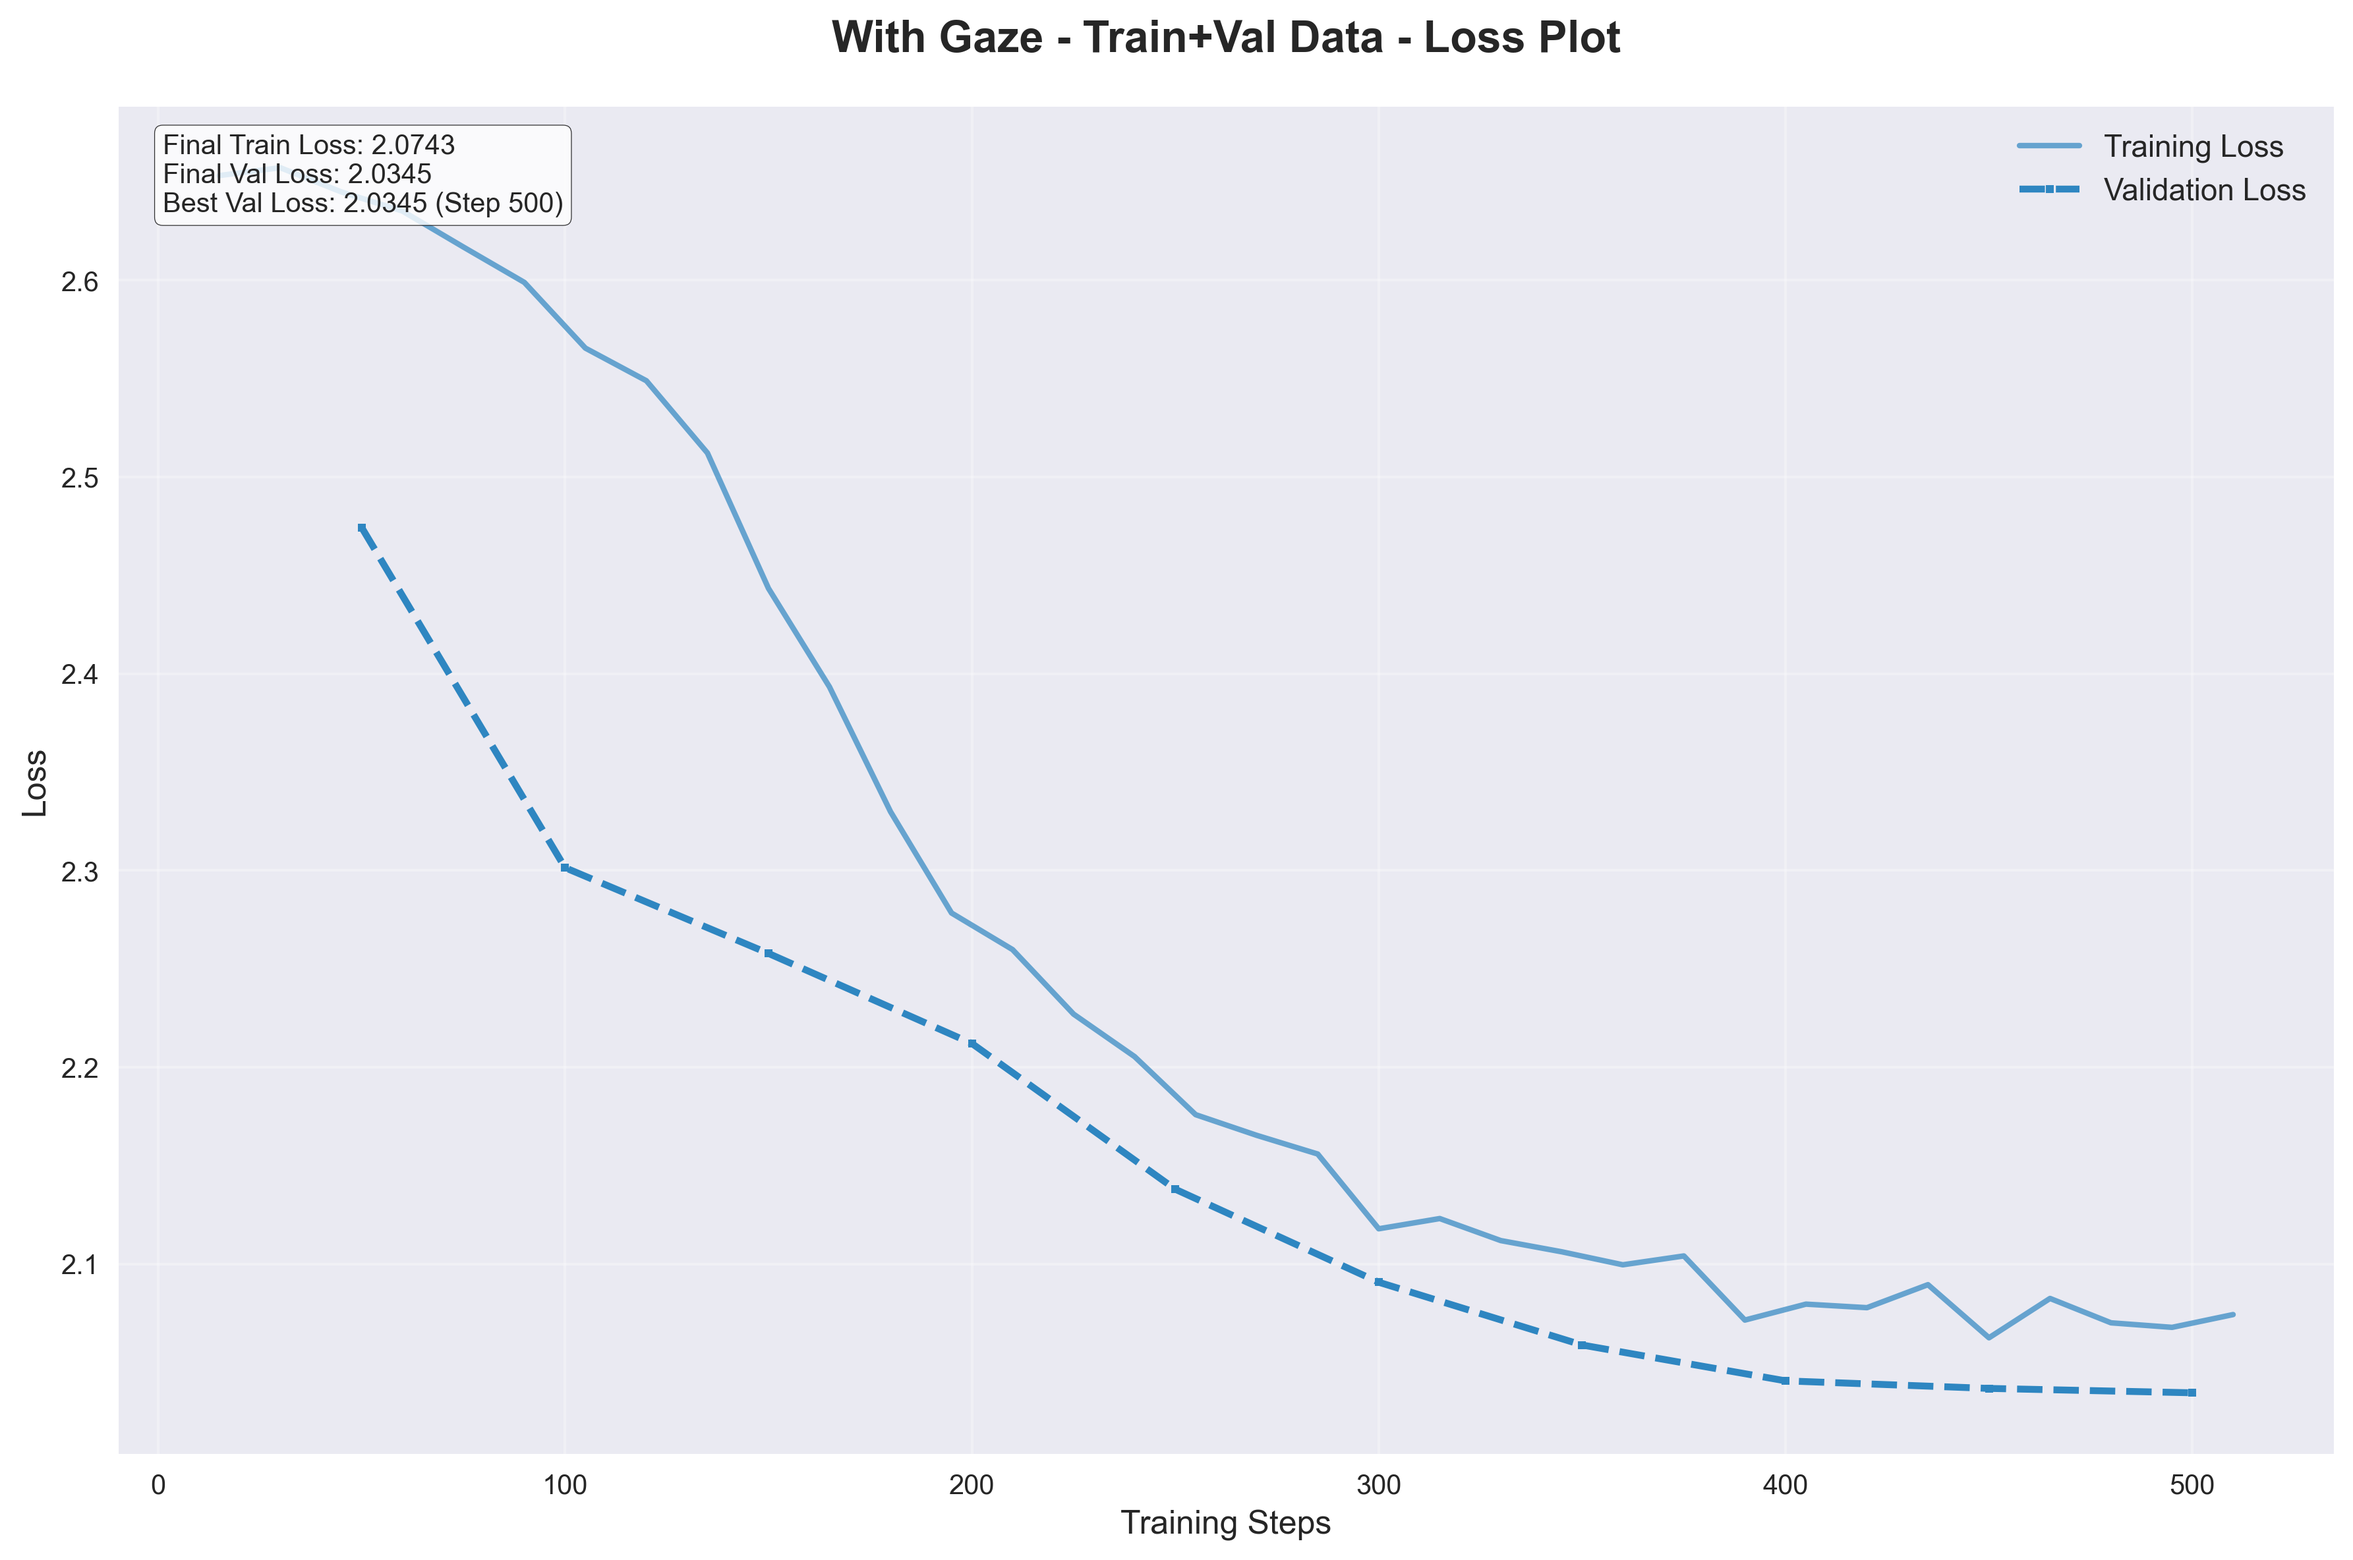
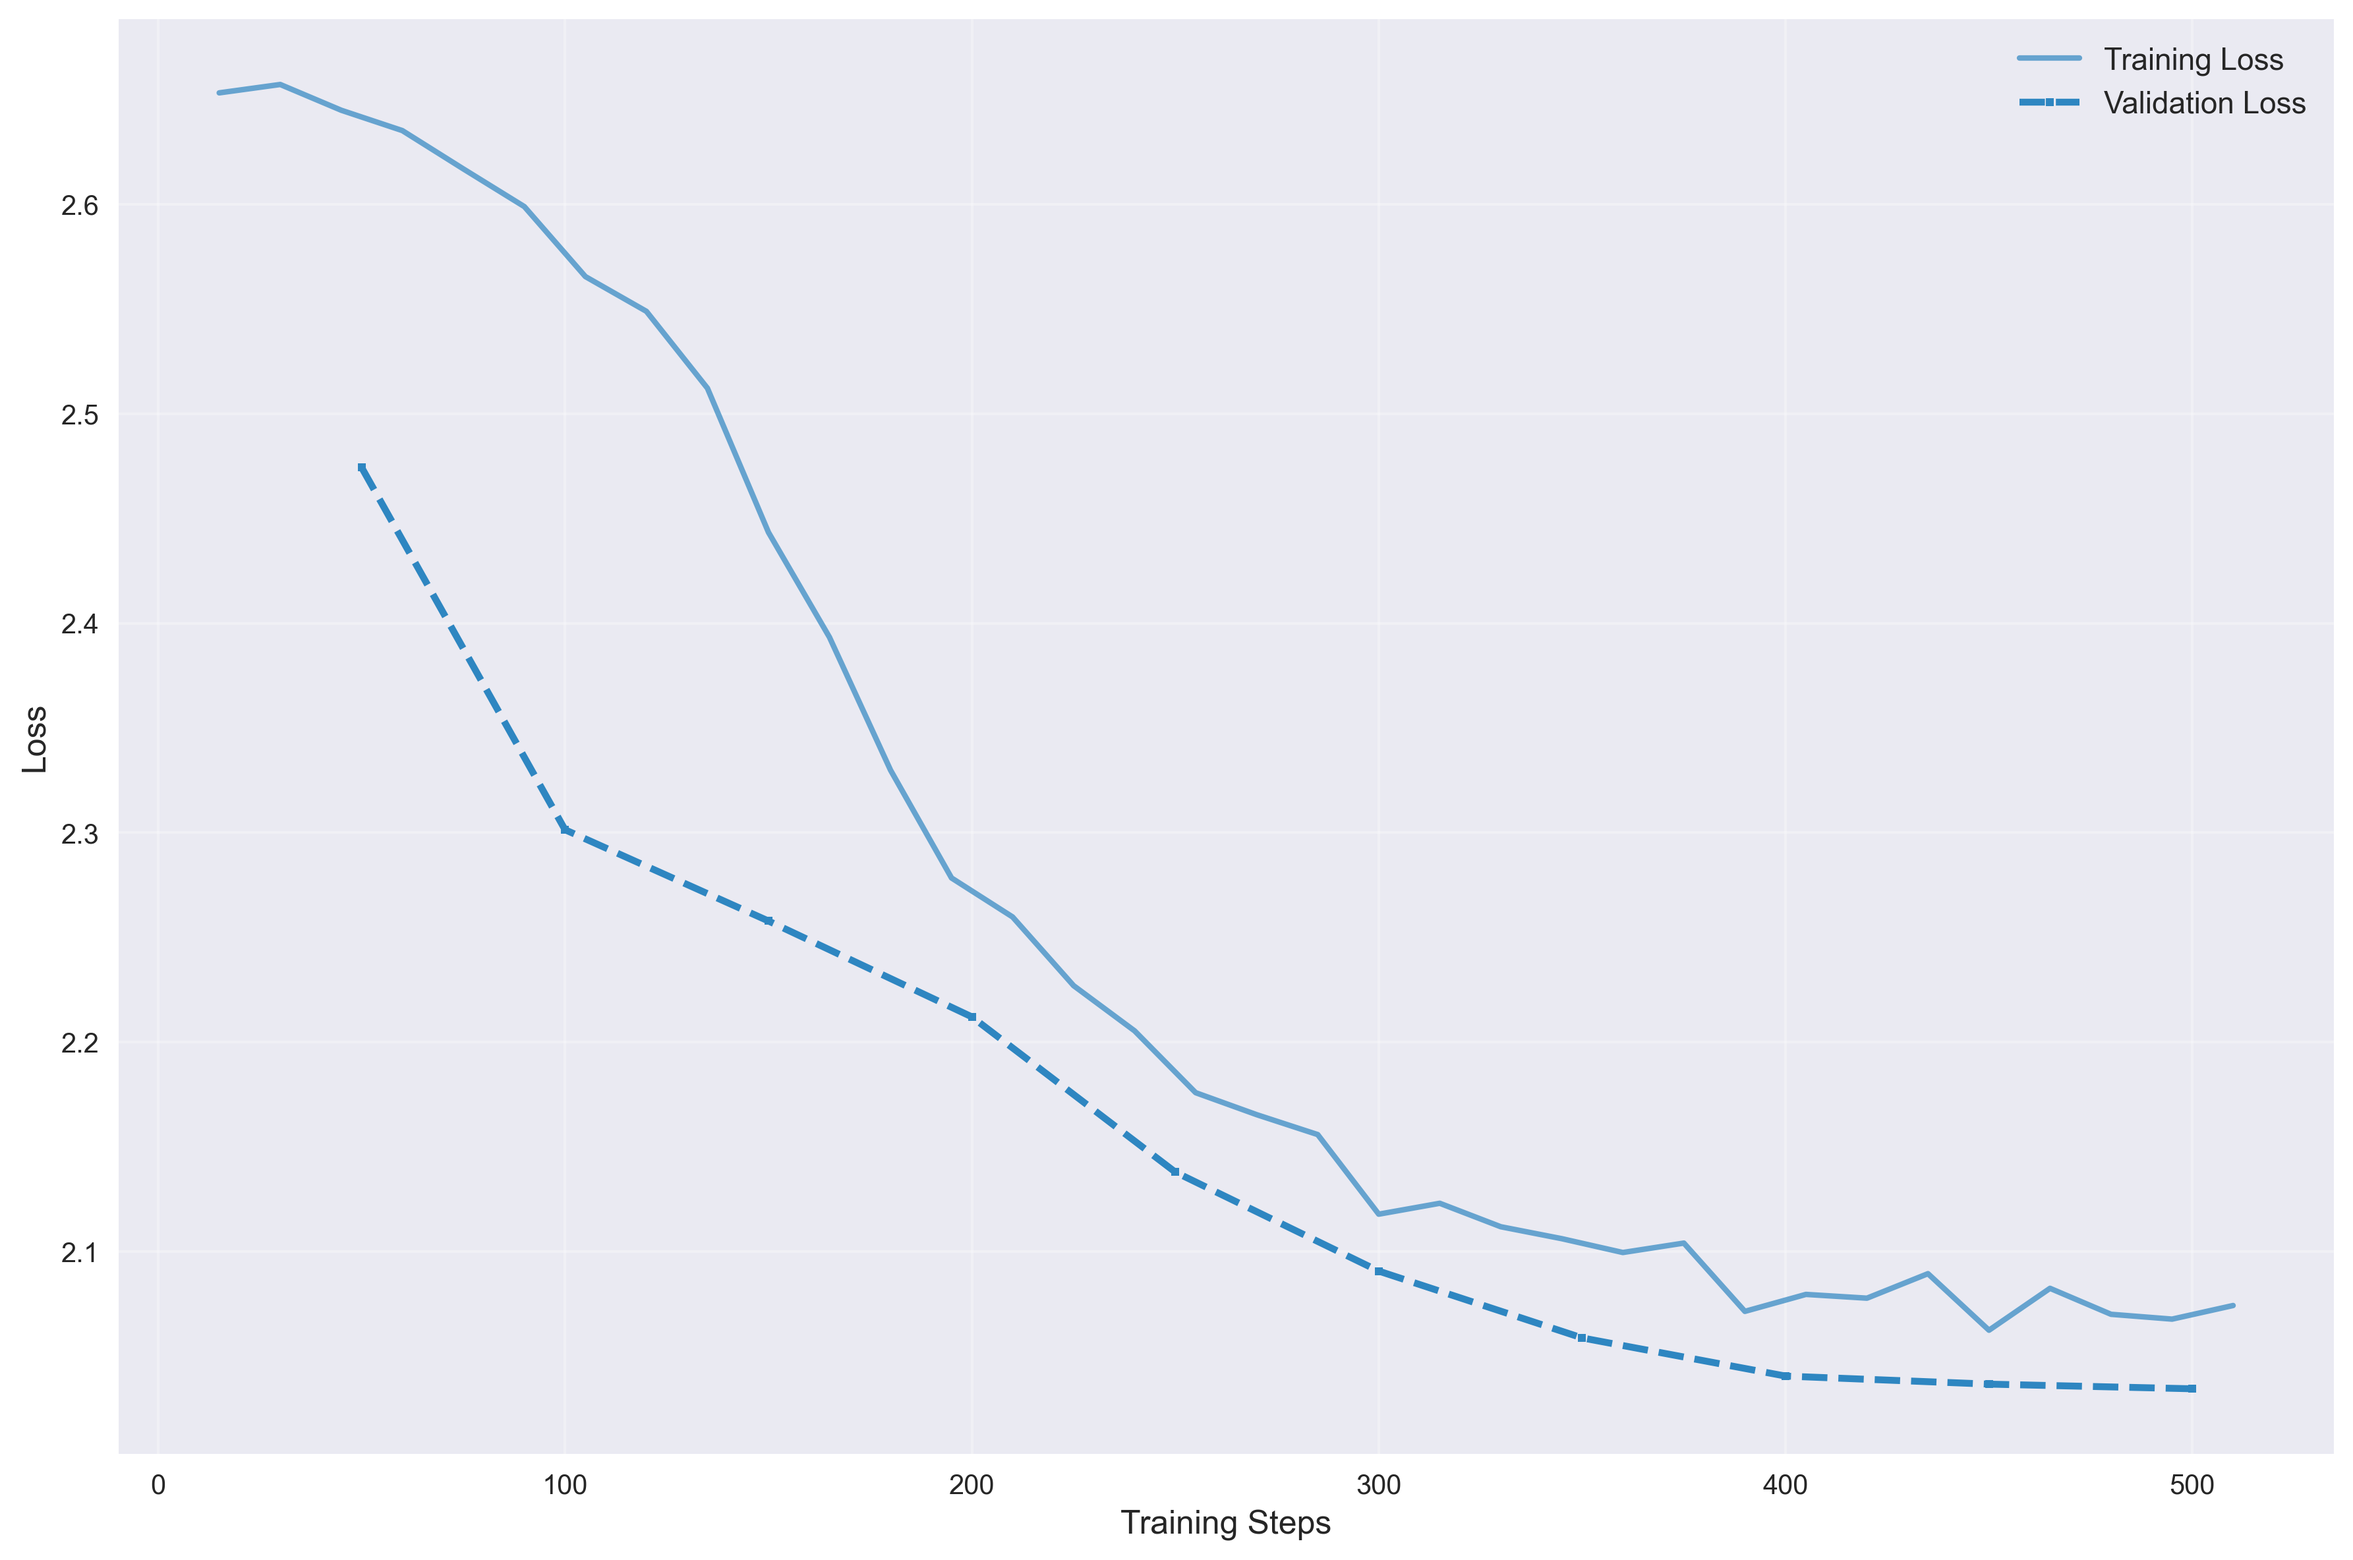
feat(graphs): enhance training plots with test metrics visualization
- Update F1 score plot to include test F1 score as horizontal reference line
- Remove titles and statistics text boxes for cleaner visualization
- Rename training history plots to reflect inclusion of test metrics
- Simplify loss plots by removing statistics text boxes

diff --git a/new_scripts/graph_making_code.py b/new_scripts/graph_making_code.py
@@ -6,6 +6,7 @@ import matplotlib.pyplot as plt
 import seaborn as sns
 import numpy as np
 from pathlib import Path
+from sklearn.metrics import f1_score
 
 # Set style for better-looking plots
 plt.style.use('seaborn-v0_8')
@@ -91,63 +92,81 @@ def load_training_history(trainer_files):
     
     return train_logs, eval_logs
 
-def create_f1_training_history_plot(experiment_key, experiment_config, eval_logs):
-    """Create F1 score training history plot"""
+def load_test_predictions(experiment_path):
+    """Load test metrics from metrics JSON file"""
+    metrics_file = os.path.join(experiment_path, "metrics_training_mimic_on_chexpert.json")
+    
+    if not os.path.exists(metrics_file):
+        print(f"⚠  Metrics file not found: {metrics_file}")
+        return None
+    
+    try:
+        with open(metrics_file, 'r') as f:
+            metrics = json.load(f)
+        
+        test_f1 = metrics.get('eval_f1', None)
+        test_auc = metrics.get('eval_auc', None)
+        
+        print(f"📊 Test Metrics from JSON:")
+        print(f"  Test F1: {test_f1:.4f}")
+        print(f"  Test AUC: {test_auc:.4f}")
+        
+        return test_f1
+    except Exception as e:
+        print(f"❌ Error loading test metrics: {e}")
+        return None
+
+def create_f1_training_testing_history_plot(experiment_key, experiment_config, eval_logs):
+    """Create F1 score training and testing history plot"""
     if eval_logs is None or eval_logs.empty:
         print(f"❌ No evaluation data for {experiment_key}")
         return
     
+    # Load test F1 score
+    test_f1 = load_test_predictions(experiment_config['path'])
+    
     # Create figure
     plt.figure(figsize=(12, 8))
     
-    # Plot F1 score progression
+    # Plot training F1 score progression (eval_f1 represents training performance)
     plt.plot(eval_logs['step'], eval_logs['eval_f1'], 
              color=experiment_config['color'], 
              linewidth=2.5, 
              marker='o', 
              markersize=4, 
              alpha=0.8,
-             label='F1 Score')
+             label='Training F1 Score')
     
-    # Add baseline reference line (if applicable)
-    baseline_f1 = 0.6242  # ViT-only baseline mentioned in the code
-    plt.axhline(y=baseline_f1, color='gray', linestyle='--', alpha=0.7, 
-                label=f'Baseline F1 ({baseline_f1})')
+    # Add test F1 as horizontal line if available
+    if test_f1 is not None:
+        plt.axhline(y=test_f1, color='orange', linestyle='--', linewidth=2.5, 
+                    alpha=0.8, label=f'Test F1 Score ({test_f1:.4f})')
     
-    # Formatting
-    plt.title(f'{experiment_config["name"]} - Training History', 
-              fontsize=16, fontweight='bold', pad=20)
+    # Formatting (no title)
     plt.xlabel('Training Steps', fontsize=12)
     plt.ylabel('F1 Score', fontsize=12)
     plt.grid(True, alpha=0.3)
     plt.legend(fontsize=11)
     
-    # Add statistics text box
-    if not eval_logs['eval_f1'].empty:
-        final_f1 = eval_logs['eval_f1'].iloc[-1]
-        best_f1 = eval_logs['eval_f1'].max()
-        best_step = eval_logs.loc[eval_logs['eval_f1'].idxmax(), 'step']
-        
-        stats_text = f'Final F1: {final_f1:.4f}\nBest F1: {best_f1:.4f} (Step {best_step})'
-        plt.text(0.02, 0.98, stats_text, transform=plt.gca().transAxes, 
-                fontsize=10, verticalalignment='top',
-                bbox=dict(boxstyle='round', facecolor='white', alpha=0.8))
-    
     # Set y-axis limits for better visualization
     f1_min = eval_logs['eval_f1'].min()
     f1_max = eval_logs['eval_f1'].max()
+    if test_f1 is not None:
+        f1_min = min(f1_min, test_f1)
+        f1_max = max(f1_max, test_f1)
+    
     margin = (f1_max - f1_min) * 0.1
     plt.ylim(max(0, f1_min - margin), min(1, f1_max + margin))
     
     plt.tight_layout()
     
     # Save plot
-    filename = f"{experiment_config['filename_prefix']}_training_history.png"
+    filename = f"{experiment_config['filename_prefix']}_training_testing_history.png"
     filepath = os.path.join(OUTPUT_DIR, filename)
     plt.savefig(filepath, dpi=300, bbox_inches='tight')
     plt.close()
     
-    print(f"✅ Saved F1 training history: {filepath}")
+    print(f"✅ Saved F1 training/testing history: {filepath}")
 
 def create_loss_plot(experiment_key, experiment_config, train_logs, eval_logs):
     """Create training and validation loss plot"""
@@ -176,31 +195,11 @@ def create_loss_plot(experiment_key, experiment_config, train_logs, eval_logs):
                 markersize=3,
                 label='Validation Loss')
     
-    # Formatting
-    plt.title(f'{experiment_config["name"]} - Loss Plot', 
-              fontsize=16, fontweight='bold', pad=20)
+    # Formatting (no title)
     plt.xlabel('Training Steps', fontsize=12)
     plt.ylabel('Loss', fontsize=12)
     plt.grid(True, alpha=0.3)
     plt.legend(fontsize=11)
-    
-    # Add statistics text box
-    stats_text = ""
-    if not train_logs.empty:
-        final_train_loss = train_logs['loss'].iloc[-1]
-        stats_text += f'Final Train Loss: {final_train_loss:.4f}\n'
-    
-    if not eval_logs.empty:
-        final_val_loss = eval_logs['eval_loss'].iloc[-1]
-        best_val_loss = eval_logs['eval_loss'].min()
-        best_step = eval_logs.loc[eval_logs['eval_loss'].idxmin(), 'step']
-        stats_text += f'Final Val Loss: {final_val_loss:.4f}\n'
-        stats_text += f'Best Val Loss: {best_val_loss:.4f} (Step {best_step})'
-    
-    if stats_text:
-        plt.text(0.02, 0.98, stats_text.strip(), transform=plt.gca().transAxes, 
-                fontsize=10, verticalalignment='top',
-                bbox=dict(boxstyle='round', facecolor='white', alpha=0.8))
     
     plt.tight_layout()
     
@@ -230,7 +229,7 @@ def process_experiment(experiment_key, experiment_config):
         return
     
     # Create plots
-    create_f1_training_history_plot(experiment_key, experiment_config, eval_logs)
+    create_f1_training_testing_history_plot(experiment_key, experiment_config, eval_logs)
     create_loss_plot(experiment_key, experiment_config, train_logs, eval_logs)
 
 def main():
